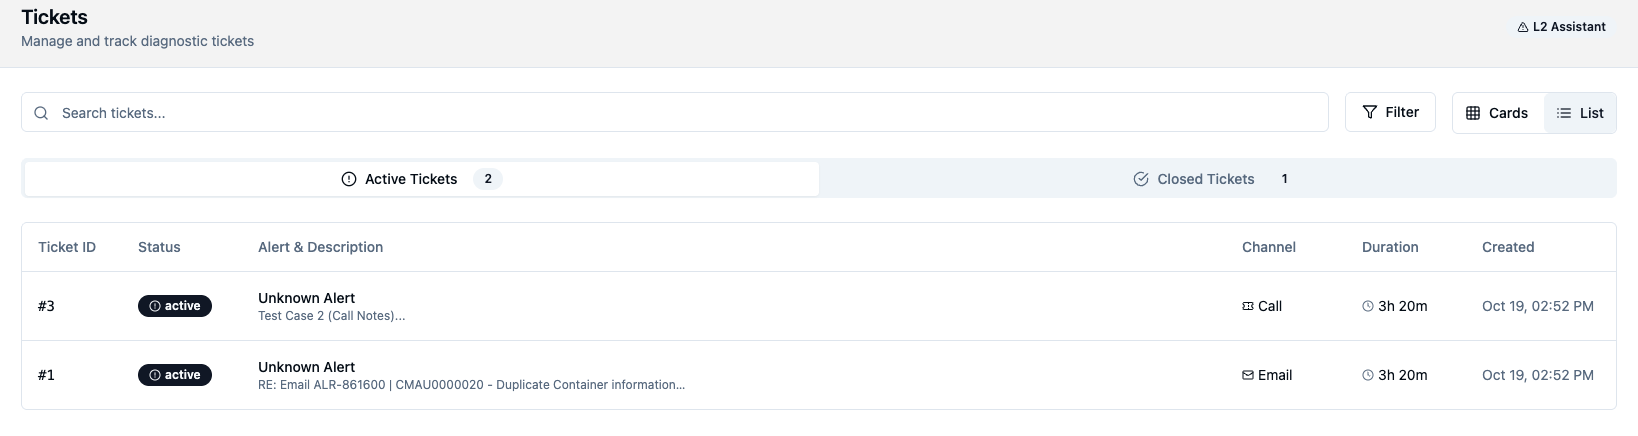
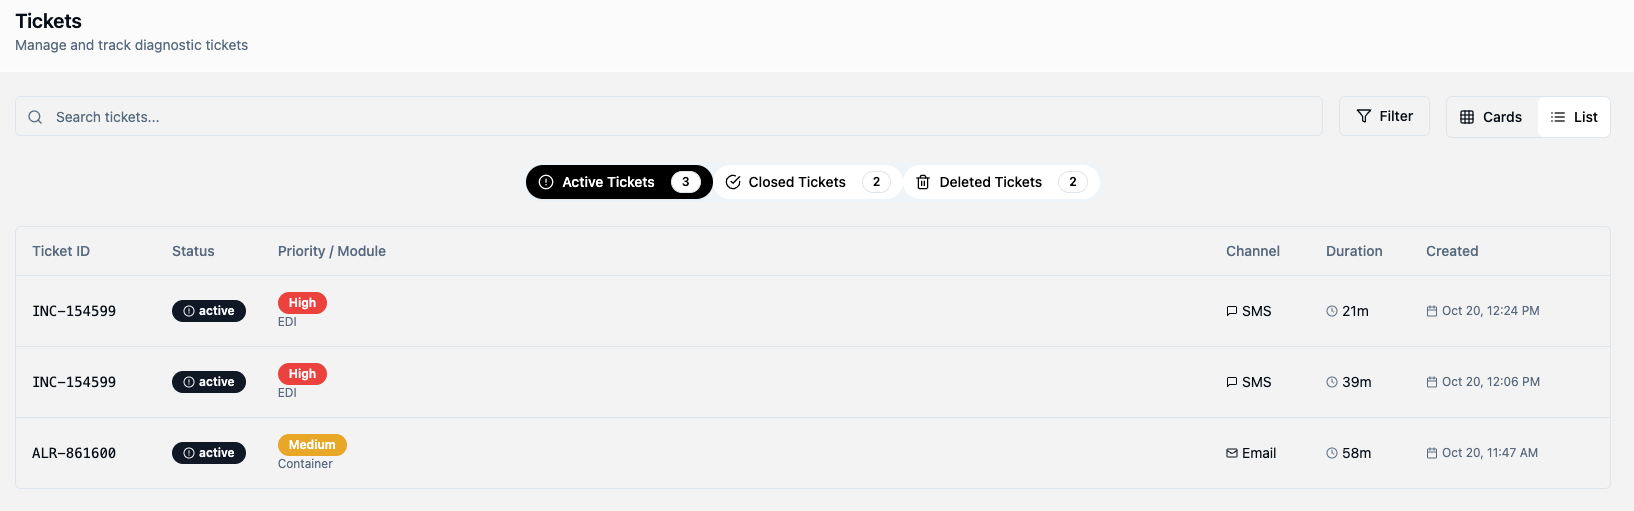
Fix deleted tickets display in both list and card views with accurate deleted_at timestamps

diff --git a/our_solution/frontend/src/components/TicketList.jsx b/our_solution/frontend/src/components/TicketList.jsx
@@ -110,7 +110,7 @@ const TicketCard = memo(({ ticket, onSelectTicket }) => {
             <span>{parsedData.channel} • {formatDuration(ticket.created_at, ticket.closed_at)}</span>
           </div>
           <div className="flex flex-col items-end gap-1">
-            {(ticket.status === 'closed' || ticket.status === 'deleted') && ticket.closed_at ? (
+            {ticket.status === 'closed' && ticket.closed_at ? (
               <>
                 <div className="flex items-center gap-1">
                   <Calendar className="w-3 h-3" />
@@ -119,6 +119,17 @@ const TicketCard = memo(({ ticket, onSelectTicket }) => {
                 <div className="flex items-center gap-1">
                   <CheckCircle className="w-3 h-3" />
                   <span className="text-xs">{formatDate(ticket.closed_at)}</span>
+                </div>
+              </>
+            ) : ticket.status === 'deleted' && ticket.deleted_at ? (
+              <>
+                <div className="flex items-center gap-1">
+                  <Calendar className="w-3 h-3" />
+                  <span className="text-xs">{formatDate(ticket.created_at)}</span>
+                </div>
+                <div className="flex items-center gap-1">
+                  <Trash2 className="w-3 h-3" />
+                  <span className="text-xs">{formatDate(ticket.deleted_at)}</span>
                 </div>
               </>
             ) : (
@@ -204,7 +215,7 @@ function renderTicketTableRow(ticket, index, onSelectTicket) {
           )}
           {ticket.status === 'deleted' && ticket.deleted_at && (
             <div className="flex items-center gap-1">
-              <CheckCircle className="w-3 h-3" />
+              <Trash2 className="w-3 h-3" />
               <span className="text-xs">{formatDate(ticket.deleted_at)}</span>
             </div>
           )}
@@ -216,7 +227,7 @@ function renderTicketTableRow(ticket, index, onSelectTicket) {
 
 function renderTicketsTable(tickets, onSelectTicket, activeTab) {
   const getDateHeaderLabel = () => {
-    if (activeTab === 'deleted') return 'Deleted';
+    if (activeTab === 'deleted') return 'Created / Deleted';
     if (activeTab === 'closed') return 'Created / Closed';
     return 'Created';
   };
@@ -255,7 +266,7 @@ export default function TicketList({ onSelectTicket, onBackToDiagnose, refreshKe
   const [channelFilter, setChannelFilter] = useState('all');
   const [dateFilter, setDateFilter] = useState('all');
   const [isRefreshing, setIsRefreshing] = useState(false); // Loading indicator for refresh
-  
+
   // Track previous refreshKey to detect actual changes
   const prevRefreshKeyRef = useRef(refreshKey);
 

diff --git a/our_solution/frontend/src/components/features-section-demo-1.jsx b/our_solution/frontend/src/components/features-section-demo-1.jsx
@@ -155,9 +155,14 @@ export const SkeletonTwo = () => {
             height={400}
             className="h-1/2 w-full object-cover object-left-top rounded-sm"
           />
-          <div className="h-1/2 w-full bg-gray-200 dark:bg-gray-700 rounded-sm flex items-center justify-center">
-            <span className="text-gray-500 dark:text-gray-400 text-sm">Additional Image Space</span>
-          </div>
+          <div className="w-full h-px bg-gradient-to-r from-transparent via-gray-300 dark:via-gray-600 to-transparent"></div>
+          <img
+            src="/Ticket Management 2.png"
+            alt="Smart Ticket Management Interface - Additional View"
+            width={800}
+            height={400}
+            className="h-1/2 w-full object-cover object-left-top rounded-sm"
+          />
         </div>
       </div>
 
